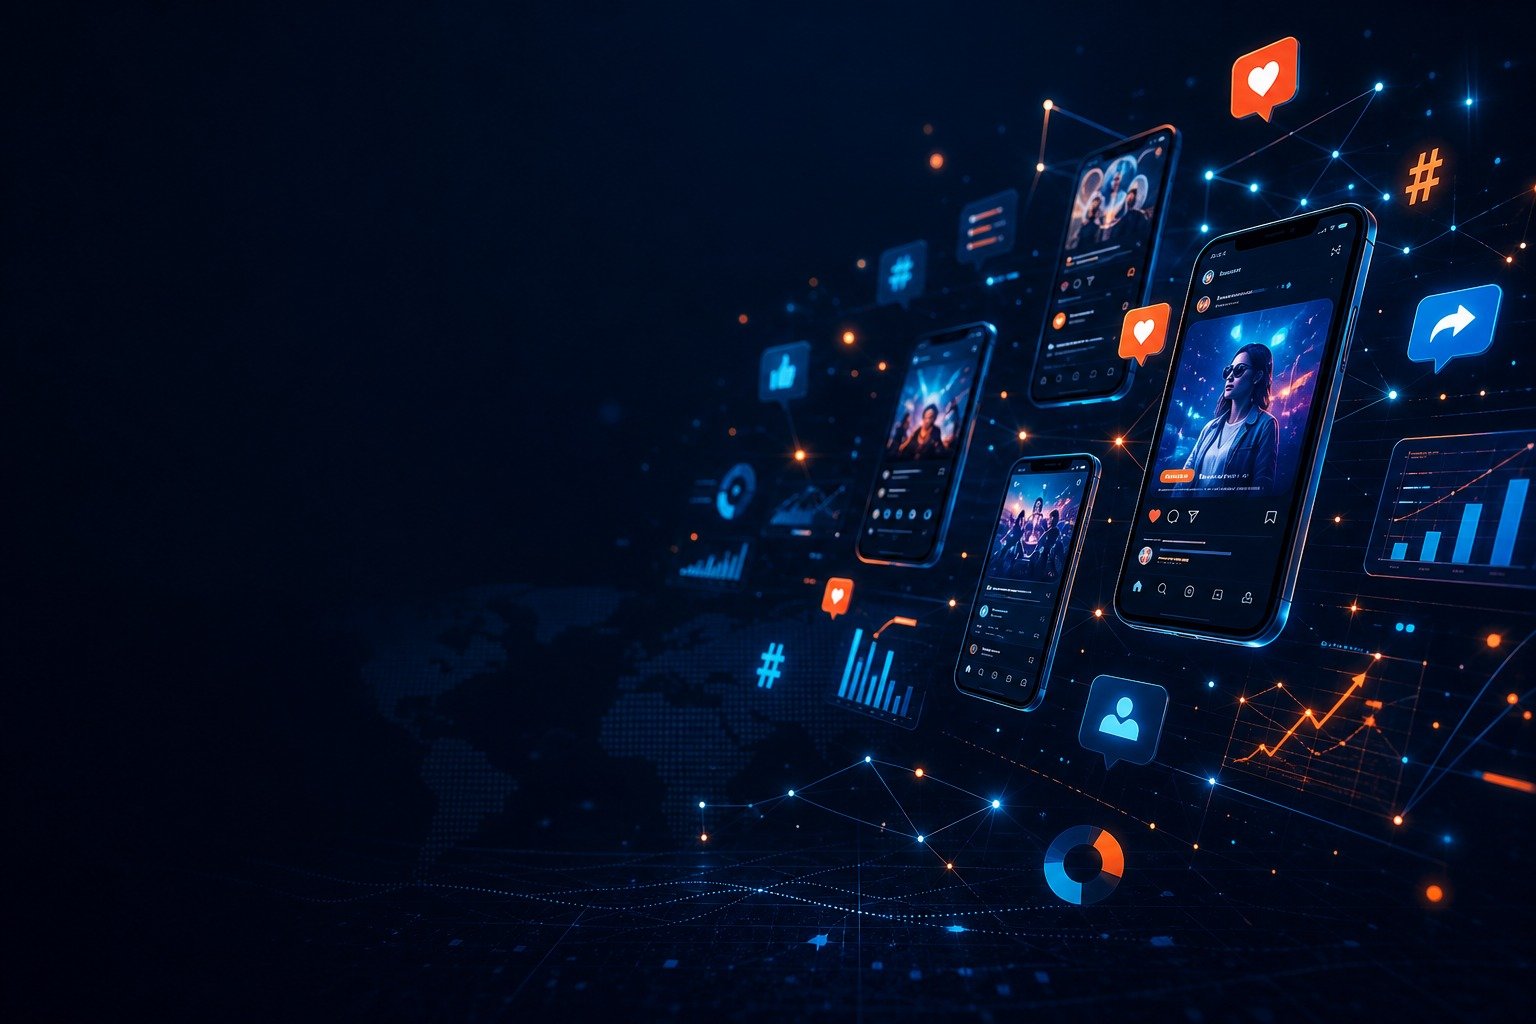
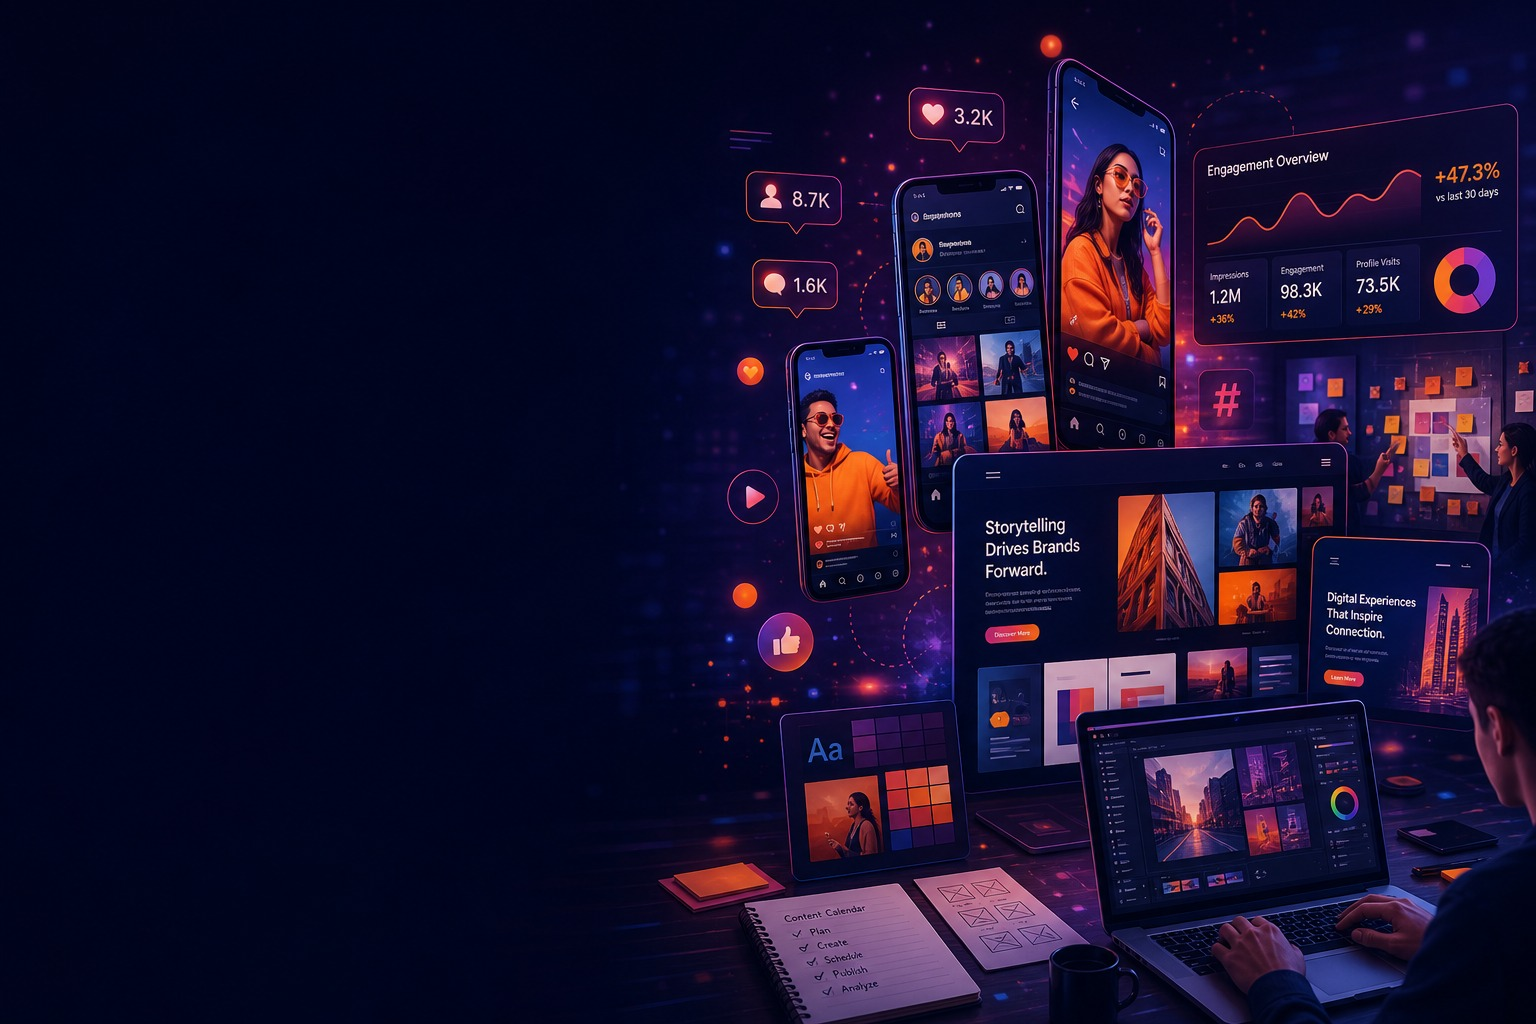
Hero slider: new slide order, topic backgrounds, integrated layout
Reorder slides to Cloud Services, Digital Marketing & SEO, Cloud Migration
& DevOps, and Branding & Social Media. Replace backgrounds per topic,
remove floating glass card, and use smooth left-to-right navy gradient.

Changed region(s): [[0.4062, 0.0312, 1.0, 1.0]]

diff --git a/components/sections/HomeHero.tsx b/components/sections/HomeHero.tsx
@@ -46,7 +46,7 @@ export function HomeHero() {
       onFocusCapture={() => setIsPaused(true)}
       onBlurCapture={() => setIsPaused(false)}
     >
-      {/* Full-width background slides — focal point on the right */}
+      {/* Background slides — image focus on the right */}
       <div className="absolute inset-0 w-full" aria-hidden>
         {heroBannerSlides.map((item, index) => (
           <div
@@ -65,35 +65,29 @@ export function HomeHero() {
               <img
                 src={item.image}
                 alt=""
-                className="h-full min-h-full w-full min-w-full object-cover object-[68%_center] sm:object-[72%_center] lg:object-right"
+                className="h-full min-h-full w-full min-w-full object-cover object-[70%_center] sm:object-[75%_center] lg:object-right"
               />
             </div>
-            {/* Light overlays — readable left, clear right */}
-            <div className="absolute inset-0 bg-[#0A0F1C]/40" />
-            <div className="absolute inset-0 bg-gradient-to-r from-[#0A0F1C]/80 via-[#0A0F1C]/45 to-transparent" />
-            <div className="absolute inset-0 bg-gradient-to-t from-[#0A0F1C]/35 via-transparent to-transparent" />
+            {/* Smooth left-to-right navy gradient — integrated banner, clear right */}
+            <div className="absolute inset-0 bg-gradient-to-r from-[#0B1220]/92 from-0% via-[#0B1220]/72 via-[38%] to-transparent to-[58%]" />
+            <div className="absolute inset-0 bg-gradient-to-t from-[#0B1220]/40 via-transparent to-[#0B1220]/15" />
           </div>
         ))}
       </div>
 
-      <div
-        className="pointer-events-none absolute inset-y-0 left-0 z-[1] w-[48%] max-w-2xl grid-pattern opacity-[0.08]"
-        aria-hidden
-      />
-
-      {/* Left-aligned content — ~42% width on desktop */}
+      {/* Left content zone — no floating card */}
       <div className="relative z-10 mx-auto flex h-full w-full max-w-7xl items-center justify-start px-4 sm:px-6 lg:px-8">
         <div className="w-full max-w-xl lg:w-[42%] lg:max-w-[520px]">
           <AnimatePresence mode="wait">
             <motion.div
               key={slide.id}
-              initial={{ opacity: 0, y: 24 }}
+              initial={{ opacity: 0, y: 20 }}
               animate={{ opacity: 1, y: 0 }}
-              exit={{ opacity: 0, y: -16 }}
+              exit={{ opacity: 0, y: -12 }}
               transition={{ duration: 0.45, ease: "easeOut" }}
-              className="rounded-[24px] border border-white/15 bg-[#0B1220]/55 p-5 shadow-[0_24px_64px_rgba(11,18,32,0.45)] backdrop-blur-xl sm:p-6"
+              className="py-1"
             >
-              <span className="inline-flex items-center rounded-full border border-[#FF6B2C] bg-[#0B1220]/60 px-4 py-1.5 text-[0.65rem] font-bold uppercase tracking-[0.18em] text-[#FF6B2C] backdrop-blur-sm sm:px-5 sm:text-xs sm:tracking-[0.2em]">
+              <span className="inline-flex items-center rounded-full border border-[#FF6B1A]/80 bg-[#FF6B1A]/10 px-4 py-1.5 text-[0.65rem] font-bold uppercase tracking-[0.18em] text-[#FF6B1A] sm:px-5 sm:text-xs sm:tracking-[0.2em]">
                 {slide.eyebrow}
               </span>
 
@@ -101,14 +95,14 @@ export function HomeHero() {
                 {slide.title}
               </h1>
 
-              <p className="mt-3 text-base leading-7 text-white/85 sm:leading-8">
+              <p className="mt-3 text-base leading-7 text-white/88 sm:leading-8">
                 {slide.description}
               </p>
 
               <div className="mt-5 flex flex-col gap-3 sm:flex-row sm:items-center">
                 <Button
                   size="lg"
-                  className="min-h-[48px] shadow-[0_12px_40px_rgba(255,107,44,0.4)]"
+                  className="min-h-[48px] bg-[#FF6B1A] shadow-[0_12px_40px_rgba(255,107,26,0.35)] hover:bg-[#ff7a2e]"
                   asChild
                 >
                   <Link href="/book-consultation/">Book Consultation</Link>
@@ -116,7 +110,7 @@ export function HomeHero() {
                 <Button
                   variant="secondary"
                   size="lg"
-                  className="min-h-[48px] border-white/25 bg-white/10 text-white backdrop-blur-sm hover:bg-white/20"
+                  className="min-h-[48px] border-white/30 bg-white/10 text-white backdrop-blur-sm hover:bg-white/18"
                   asChild
                 >
                   <Link href={slide.learnMoreHref}>
@@ -127,8 +121,8 @@ export function HomeHero() {
               </div>
 
               {slide.showCloudPartners && (
-                <div className="mt-6 border-t border-white/10 pt-5">
-                  <p className="text-[0.65rem] font-bold uppercase tracking-[0.18em] text-white/50">
+                <div className="mt-6 border-t border-white/15 pt-5">
+                  <p className="text-[0.65rem] font-bold uppercase tracking-[0.18em] text-white/55">
                     Trusted cloud platforms
                   </p>
                   <div className="mt-3 flex flex-wrap items-center gap-4 sm:gap-5">
@@ -148,11 +142,10 @@ export function HomeHero() {
         </div>
       </div>
 
-      {/* Navigation */}
       <button
         type="button"
         onClick={goPrev}
-        className="absolute left-3 top-1/2 z-20 flex h-11 w-11 -translate-y-1/2 items-center justify-center rounded-full border border-white/20 bg-[#0A0F1C]/70 text-white shadow-lg backdrop-blur-md transition hover:border-[#FF6B2C]/50 hover:bg-[#0A0F1C]/90 sm:left-6"
+        className="absolute left-3 top-1/2 z-20 flex h-11 w-11 -translate-y-1/2 items-center justify-center rounded-full border border-white/20 bg-[#0B1220]/70 text-white shadow-lg backdrop-blur-md transition hover:border-[#FF6B1A]/50 hover:bg-[#0B1220]/90 sm:left-6"
         aria-label="Previous slide"
       >
         <ChevronLeft className="h-5 w-5" />
@@ -160,7 +153,7 @@ export function HomeHero() {
       <button
         type="button"
         onClick={goNext}
-        className="absolute right-3 top-1/2 z-20 flex h-11 w-11 -translate-y-1/2 items-center justify-center rounded-full border border-white/20 bg-[#0A0F1C]/70 text-white shadow-lg backdrop-blur-md transition hover:border-[#FF6B2C]/50 hover:bg-[#0A0F1C]/90 sm:right-6"
+        className="absolute right-3 top-1/2 z-20 flex h-11 w-11 -translate-y-1/2 items-center justify-center rounded-full border border-white/20 bg-[#0B1220]/70 text-white shadow-lg backdrop-blur-md transition hover:border-[#FF6B1A]/50 hover:bg-[#0B1220]/90 sm:right-6"
         aria-label="Next slide"
       >
         <ChevronRight className="h-5 w-5" />
@@ -181,7 +174,7 @@ export function HomeHero() {
             onClick={() => goToSlide(index)}
             className={cn(
               "h-2.5 rounded-full transition-all duration-300",
-              index === activeIndex ? "w-9 bg-[#FF6B2C]" : "w-2.5 bg-white/35 hover:bg-white/55",
+              index === activeIndex ? "w-9 bg-[#FF6B1A]" : "w-2.5 bg-white/35 hover:bg-white/55",
             )}
           />
         ))}

diff --git a/data/home-hero-carousel.ts b/data/home-hero-carousel.ts
@@ -18,44 +18,44 @@ export const heroBannerSlides: HeroBannerSlide[] = [
     title: "Transforming Cloud Infrastructure for Modern Enterprises",
     description:
       "Accelerate your cloud journey with AWS consulting, cloud migration, managed services, DevOps automation, cybersecurity, and AI-driven solutions.",
-    image: `${slideImages}/cloud-image-1.jpg`,
+    image: `${slideImages}/cloud-services.jpg`,
     imageAlt:
-      "Glowing blue cloud network with digital circuit patterns representing enterprise cloud infrastructure",
+      "Enterprise cloud computing infrastructure with modern cloud network and AWS cloud architecture",
     learnMoreHref: "/cloud-services/",
     showCloudPartners: true,
   },
   {
-    id: "cloud-security",
-    eyebrow: "CLOUD & SECURITY",
-    title: "Secure, Scale and Optimize Your Business",
-    description:
-      "End-to-end cloud security, infrastructure modernization, monitoring, compliance, disaster recovery, and managed cloud operations.",
-    image: `${slideImages}/cloud-image-2.jpg`,
-    imageAlt:
-      "Isometric cloud server architecture with connected workstations representing secure cloud operations",
-    learnMoreHref: "/cyber-security/",
-    showCloudPartners: true,
-  },
-  {
-    id: "growth-marketing",
-    eyebrow: "GROWTH MARKETING",
+    id: "digital-marketing-seo",
+    eyebrow: "DIGITAL MARKETING & SEO",
     title: "Digital Marketing That Drives Real Growth",
     description:
       "Increase visibility, generate qualified leads, and grow your brand through SEO, content marketing, social media marketing, and performance campaigns.",
-    image: `${slideImages}/growth-marketing-seo.jpg`,
+    image: `${slideImages}/digital-marketing-seo.jpg`,
     imageAlt:
-      "SEO marketing hub illustration with connected search, keywords, rankings, and traffic nodes",
+      "SEO analytics dashboards and digital marketing performance charts showing growth metrics",
     learnMoreHref: "/search-engine-optimization/",
   },
   {
-    id: "web-branding",
-    eyebrow: "BRANDING & WEB",
+    id: "cloud-migration-devops",
+    eyebrow: "CLOUD MIGRATION & DEVOPS",
+    title: "Accelerate Cloud Migration & DevOps Automation",
+    description:
+      "Streamline cloud migration, CI/CD pipelines, Kubernetes orchestration, and infrastructure automation with proven DevOps practices and enterprise-grade tooling.",
+    image: `${slideImages}/cloud-migration-devops.jpg`,
+    imageAlt:
+      "Cloud migration architecture with DevOps pipelines, CI/CD workflows, and Kubernetes automation",
+    learnMoreHref: "/cloud-services/",
+    showCloudPartners: true,
+  },
+  {
+    id: "branding-social-media",
+    eyebrow: "BRANDING & SOCIAL MEDIA",
     title: "Build Strong Brands and High-Converting Websites",
     description:
       "Professional website development, branding, content strategy, user experience, and digital growth solutions for modern businesses.",
     image: `${slideImages}/branding-social-media.jpg`,
     imageAlt:
-      "Social media marketing illustration with connected devices and engagement analytics",
+      "Social media marketing, branding strategy, content creation, and audience engagement visuals",
     learnMoreHref: "/website-development/",
   },
 ];
